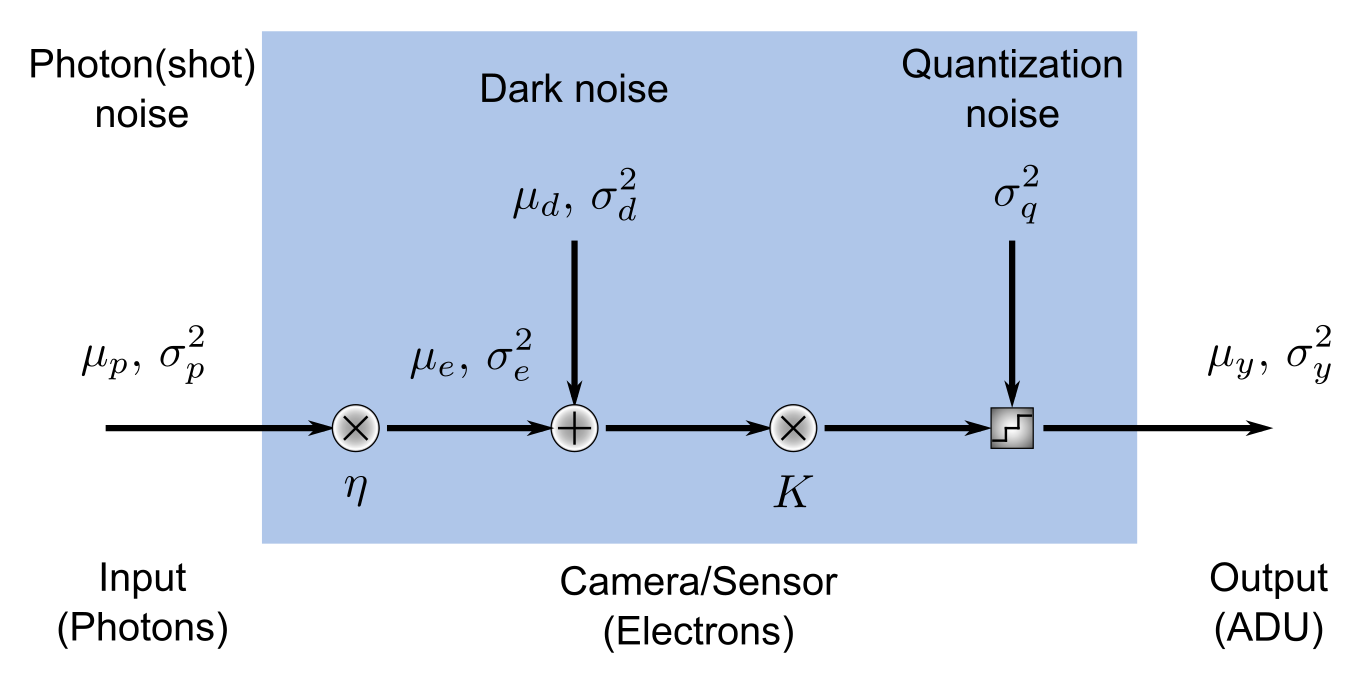
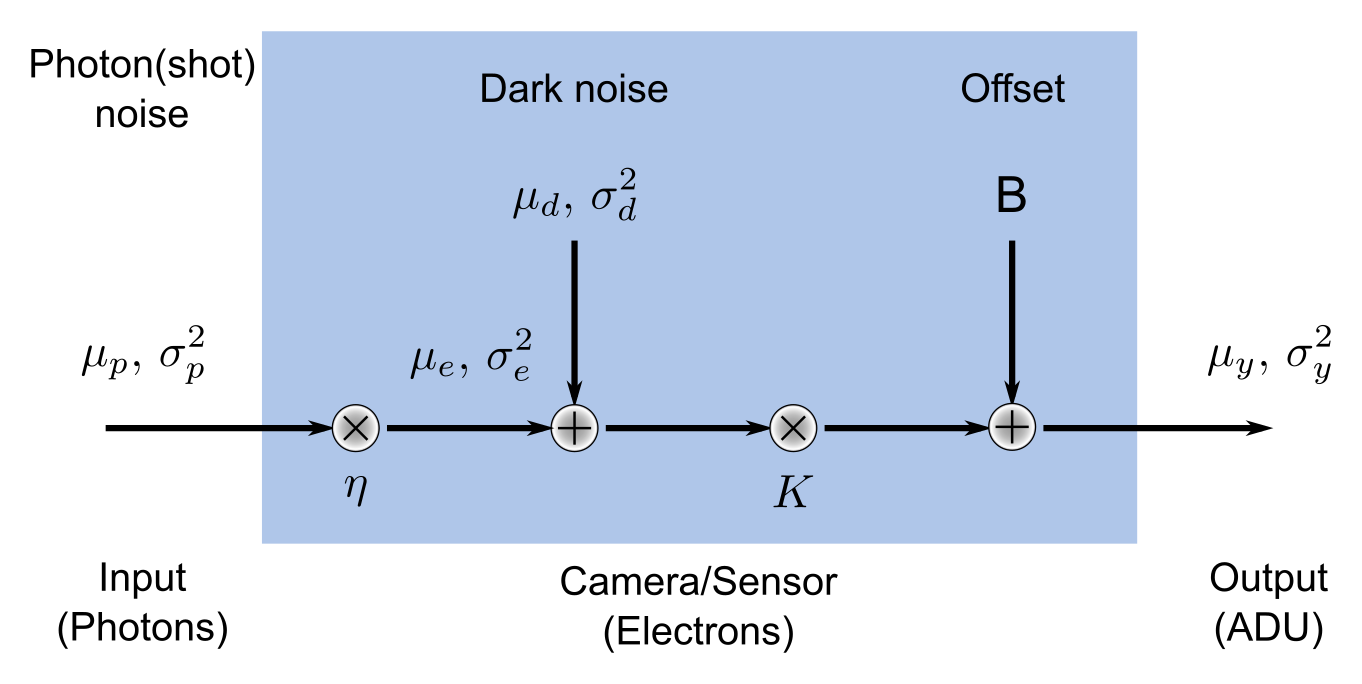
Finish by adding SNR discussion and main equations

Changed region(s): [[0.6476, 0.0614, 0.8326, 0.1842], [0.7093, 0.5833, 0.7709, 0.6754], [0.7093, 0.2456, 0.7709, 0.3377]]

diff --git a/texts/smlm-lab-course/smlm-lab-manual.tex b/texts/smlm-lab-course/smlm-lab-manual.tex
@@ -152,7 +152,7 @@ One approach to the problem is to consider the Nyquist sampling criterion for th
 
 \subsection{A Mathematical Model for Cameras}
 
-The model for the camera that is used in this course is from the EMVA 1288 specification: \url{https://www.emva.org/standards-technology/emva-1288/} .This document details a standard set of models and procedures to characterize CMOS and CCD cameras and light sensors. \autoref{fig:camera-model} depicts the model visually.
+The model for the camera that is used in this course is a slightly modified version of the EMVA 1288 specification: \url{https://www.emva.org/standards-technology/emva-1288/} .This document details a standard set of models and procedures to characterize CMOS and CCD cameras and light sensors. \autoref{fig:camera-model} depicts the model visually.
 
 \begin{figure}[ht]
     \centering
@@ -168,10 +168,25 @@ In this model, a single pixel takes an input (a number of photons) and transform
     \item The sensor is linear, i.e. the digital signal $y$ increases linearly with the number of photons received.
     \item All noise sources are constant in time and space.
     \item Only the quantum efficiency of the camera is dependent on the wavelength of the incident irradiation.
-    \item Only the dark current depends on the temperature.
 \end{enumerate}
 
 From these five assumptions, the laws of quantum mechanics, and the laws of probability, expressions for the mean output, $\mu_y$, the variance of the output $\sigma^2_y$, and the signal-to-noise ratio $\text{SNR}$ may be derived.
+
+\begin{align}
+    \mu_y &= K \mu_d + K \eta \mu_p + B\\
+    \sigma_y^2 &= K^2 \sigma_d^2 + K \left( \mu_y - K \mu_d - B\right) \\
+    \text{SNR} &= \frac{\eta \mu_p}{\sqrt{\sigma_d^2 + \eta \mu_p}}
+\end{align}
+
+In these expressions, $\mu$ and $\sigma^2$ represent the mean and variance of the number of photons hitting the pixel ($p$), the dark noise ($d$), and the output signal in ADU's ($y$). The number of electrons $\mu_e$ generated by $\mu_p$ photons hitting the active area of the sensor is obtained from the expression for the quantum efficiency $\eta$, a property of the pixel that denotes how efficiently photons are converted into photoelectrons. In general, the quantum efficiency depends on the wavelength:
+
+\begin{equation}
+    \eta \left( \lambda \right) = \frac{\mu_e}{\mu_p}
+\end{equation}
+
+$K$ is referred to as the overall system gain (or more simply, the gain). It has units of $\frac{\text{ADU}}{e^-}$ and represents the amplification of the signal in photoelectrons into ADUs. In microscopy, the dark noise $\sigma_d^2$ is dominated by the read noise, which comes from a random value that is added onto the signal when the voltage is read out from the pixel. $B$, in units of $\text{ADU}$ is called the offset and is a constant value that's added onto the output of a pixel to make sure that its value never drops below 0.
+
+The most important part of the above model is the behavior of the pixel when the light signal is much stronger than the read noise. In this case, the number of detected photons $\eta \mu_p$ is much greater than the read noise $\sigma_d^2$. The signal-to-noise ratio is then approximately $\text{SNR} \sim \sqrt{\eta \mu_p}$. This is the so-called photon shot noise limit, and it is the best that we can do when measuring the number of photons from a molecule.
 
 \chapter{Single Molecule Localization Microscopy}
 
